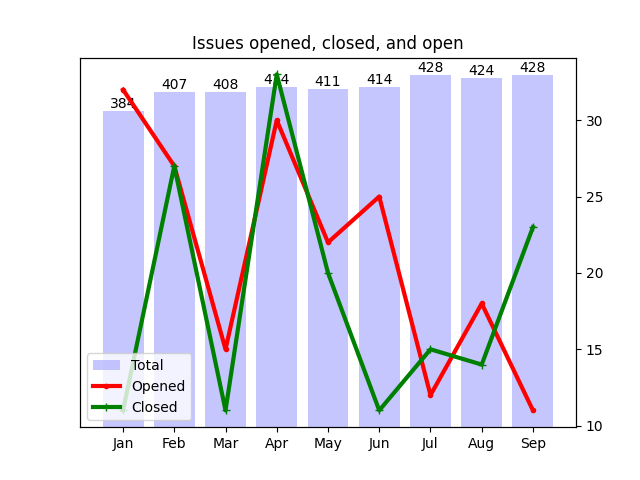
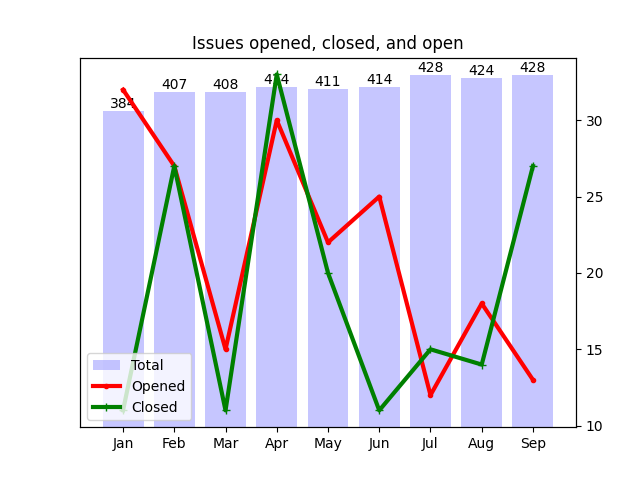
Apply automatic changes

Changed region(s): [[0.75, 0.3438, 0.8438, 0.875]]

diff --git a/docs/analytics.html b/docs/analytics.html
@@ -109,8 +109,8 @@ td .material-icons { display:inline-flex; vertical-align: top; font-size:1.1rem;
 						</tr>
 						<tr>
 							<td>Sep</td>
-							<td>11</td>
-							<td>23</td>
+							<td>13</td>
+							<td>27</td>
 						</tr>
 					</table>
 				</div>
@@ -130,7 +130,7 @@ td .material-icons { display:inline-flex; vertical-align: top; font-size:1.1rem;
 							<td>
 								<a href="http://github.com/notofonts/latin-greek-cyrillic/issues">latin-greek-cyrillic</a>
 							</td>
-							<td>126</td>
+							<td>127</td>
 						</tr>
 						<tr>
 							<td>
@@ -201,19 +201,19 @@ td .material-icons { display:inline-flex; vertical-align: top; font-size:1.1rem;
 				<tr>
 					<td>1</td>
 					<td>
-						<a href="http://github.com/notofonts/chakma/issues">chakma</a>,  						<a href="http://github.com/notofonts/chorasmian/issues">chorasmian</a>,  						<a href="http://github.com/notofonts/dogra/issues">dogra</a>,  						<a href="http://github.com/notofonts/duployan/issues">duployan</a>,  						<a href="http://github.com/notofonts/elbasan/issues">elbasan</a>,  						<a href="http://github.com/notofonts/ethiopic/issues">ethiopic</a>,  						<a href="http://github.com/notofonts/glagolitic/issues">glagolitic</a>,  						<a href="http://github.com/notofonts/gunjala-gondi/issues">gunjala-gondi</a>,  						<a href="http://github.com/notofonts/inscriptional-pahlavi/issues">inscriptional-pahlavi</a>,  						<a href="http://github.com/notofonts/kharoshthi/issues">kharoshthi</a>,  						<a href="http://github.com/notofonts/khitan-small-script/issues">khitan-small-script</a>,  						<a href="http://github.com/notofonts/khmer/issues">khmer</a>,  						<a href="http://github.com/notofonts/khojki/issues">khojki</a>,  						<a href="http://github.com/notofonts/khudawadi/issues">khudawadi</a>,  						<a href="http://github.com/notofonts/lao/issues">lao</a>,  						<a href="http://github.com/notofonts/limbu/issues">limbu</a>,  						<a href="http://github.com/notofonts/masaram-gondi/issues">masaram-gondi</a>,  						<a href="http://github.com/notofonts/meetei-mayek/issues">meetei-mayek</a>,  						<a href="http://github.com/notofonts/mongolian/issues">mongolian</a>,  						<a href="http://github.com/notofonts/nag-mundari/issues">nag-mundari</a>,  						<a href="http://github.com/notofonts/nko/issues">nko</a>,  						<a href="http://github.com/notofonts/old-italic/issues">old-italic</a>,  						<a href="http://github.com/notofonts/old-turkic/issues">old-turkic</a>,  						<a href="http://github.com/notofonts/pau-cin-hau/issues">pau-cin-hau</a>,  						<a href="http://github.com/notofonts/phags-pa/issues">phags-pa</a>,  						<a href="http://github.com/notofonts/rejang/issues">rejang</a>,  						<a href="http://github.com/notofonts/saurashtra/issues">saurashtra</a>,  						<a href="http://github.com/notofonts/sogdian/issues">sogdian</a>,  						<a href="http://github.com/notofonts/sundanese/issues">sundanese</a>,  						<a href="http://github.com/notofonts/tai-tham/issues">tai-tham</a>,  						<a href="http://github.com/notofonts/takri/issues">takri</a>,  						<a href="http://github.com/notofonts/tangsa/issues">tangsa</a>,  						<a href="http://github.com/notofonts/thaana/issues">thaana</a>,  						<a href="http://github.com/notofonts/toto/issues">toto</a> 
+						<a href="http://github.com/notofonts/chakma/issues">chakma</a>,  						<a href="http://github.com/notofonts/chorasmian/issues">chorasmian</a>,  						<a href="http://github.com/notofonts/dogra/issues">dogra</a>,  						<a href="http://github.com/notofonts/duployan/issues">duployan</a>,  						<a href="http://github.com/notofonts/elbasan/issues">elbasan</a>,  						<a href="http://github.com/notofonts/glagolitic/issues">glagolitic</a>,  						<a href="http://github.com/notofonts/gunjala-gondi/issues">gunjala-gondi</a>,  						<a href="http://github.com/notofonts/inscriptional-pahlavi/issues">inscriptional-pahlavi</a>,  						<a href="http://github.com/notofonts/kharoshthi/issues">kharoshthi</a>,  						<a href="http://github.com/notofonts/khitan-small-script/issues">khitan-small-script</a>,  						<a href="http://github.com/notofonts/khojki/issues">khojki</a>,  						<a href="http://github.com/notofonts/khudawadi/issues">khudawadi</a>,  						<a href="http://github.com/notofonts/lao/issues">lao</a>,  						<a href="http://github.com/notofonts/limbu/issues">limbu</a>,  						<a href="http://github.com/notofonts/masaram-gondi/issues">masaram-gondi</a>,  						<a href="http://github.com/notofonts/meetei-mayek/issues">meetei-mayek</a>,  						<a href="http://github.com/notofonts/mongolian/issues">mongolian</a>,  						<a href="http://github.com/notofonts/nag-mundari/issues">nag-mundari</a>,  						<a href="http://github.com/notofonts/nko/issues">nko</a>,  						<a href="http://github.com/notofonts/old-italic/issues">old-italic</a>,  						<a href="http://github.com/notofonts/old-turkic/issues">old-turkic</a>,  						<a href="http://github.com/notofonts/oriya/issues">oriya</a>,  						<a href="http://github.com/notofonts/pau-cin-hau/issues">pau-cin-hau</a>,  						<a href="http://github.com/notofonts/phags-pa/issues">phags-pa</a>,  						<a href="http://github.com/notofonts/psalter-pahlavi/issues">psalter-pahlavi</a>,  						<a href="http://github.com/notofonts/rejang/issues">rejang</a>,  						<a href="http://github.com/notofonts/saurashtra/issues">saurashtra</a>,  						<a href="http://github.com/notofonts/sogdian/issues">sogdian</a>,  						<a href="http://github.com/notofonts/sundanese/issues">sundanese</a>,  						<a href="http://github.com/notofonts/tai-tham/issues">tai-tham</a>,  						<a href="http://github.com/notofonts/takri/issues">takri</a>,  						<a href="http://github.com/notofonts/tangsa/issues">tangsa</a>,  						<a href="http://github.com/notofonts/thaana/issues">thaana</a>,  						<a href="http://github.com/notofonts/toto/issues">toto</a> 
 					</td>
 				</tr>
 				<tr>
 					<td>2</td>
 					<td>
-						<a href="http://github.com/notofonts/adlam/issues">adlam</a>,  						<a href="http://github.com/notofonts/armenian/issues">armenian</a>,  						<a href="http://github.com/notofonts/brahmi/issues">brahmi</a>,  						<a href="http://github.com/notofonts/coptic/issues">coptic</a>,  						<a href="http://github.com/notofonts/cuneiform/issues">cuneiform</a>,  						<a href="http://github.com/notofonts/devanagari/issues">devanagari</a>,  						<a href="http://github.com/notofonts/georgian/issues">georgian</a>,  						<a href="http://github.com/notofonts/mandaic/issues">mandaic</a>,  						<a href="http://github.com/notofonts/music/issues">music</a>,  						<a href="http://github.com/notofonts/old-hungarian-ui/issues">old-hungarian-ui</a>,  						<a href="http://github.com/notofonts/oriya/issues">oriya</a>,  						<a href="http://github.com/notofonts/sign-writing/issues">sign-writing</a>,  						<a href="http://github.com/notofonts/tagalog/issues">tagalog</a>,  						<a href="http://github.com/notofonts/tamil/issues">tamil</a>,  						<a href="http://github.com/notofonts/telugu/issues">telugu</a> 
+						<a href="http://github.com/notofonts/adlam/issues">adlam</a>,  						<a href="http://github.com/notofonts/armenian/issues">armenian</a>,  						<a href="http://github.com/notofonts/brahmi/issues">brahmi</a>,  						<a href="http://github.com/notofonts/coptic/issues">coptic</a>,  						<a href="http://github.com/notofonts/cuneiform/issues">cuneiform</a>,  						<a href="http://github.com/notofonts/devanagari/issues">devanagari</a>,  						<a href="http://github.com/notofonts/georgian/issues">georgian</a>,  						<a href="http://github.com/notofonts/khmer/issues">khmer</a>,  						<a href="http://github.com/notofonts/mandaic/issues">mandaic</a>,  						<a href="http://github.com/notofonts/music/issues">music</a>,  						<a href="http://github.com/notofonts/old-hungarian-ui/issues">old-hungarian-ui</a>,  						<a href="http://github.com/notofonts/sign-writing/issues">sign-writing</a>,  						<a href="http://github.com/notofonts/tagalog/issues">tagalog</a>,  						<a href="http://github.com/notofonts/tamil/issues">tamil</a>,  						<a href="http://github.com/notofonts/telugu/issues">telugu</a> 
 					</td>
 				</tr>
 				<tr>
 					<td>3</td>
 					<td>
-						<a href="http://github.com/notofonts/ahom/issues">ahom</a>,  						<a href="http://github.com/notofonts/inscriptional-parthian/issues">inscriptional-parthian</a>,  						<a href="http://github.com/notofonts/kaithi/issues">kaithi</a>,  						<a href="http://github.com/notofonts/manichaean/issues">manichaean</a>,  						<a href="http://github.com/notofonts/nandinagari/issues">nandinagari</a>,  						<a href="http://github.com/notofonts/psalter-pahlavi/issues">psalter-pahlavi</a>,  						<a href="http://github.com/notofonts/sharada/issues">sharada</a>,  						<a href="http://github.com/notofonts/siddham/issues">siddham</a>,  						<a href="http://github.com/notofonts/thai/issues">thai</a>,  						<a href="http://github.com/notofonts/tifinagh/issues">tifinagh</a>,  						<a href="http://github.com/notofonts/znamenny/issues">znamenny</a> 
+						<a href="http://github.com/notofonts/ahom/issues">ahom</a>,  						<a href="http://github.com/notofonts/inscriptional-parthian/issues">inscriptional-parthian</a>,  						<a href="http://github.com/notofonts/kaithi/issues">kaithi</a>,  						<a href="http://github.com/notofonts/manichaean/issues">manichaean</a>,  						<a href="http://github.com/notofonts/nandinagari/issues">nandinagari</a>,  						<a href="http://github.com/notofonts/sharada/issues">sharada</a>,  						<a href="http://github.com/notofonts/siddham/issues">siddham</a>,  						<a href="http://github.com/notofonts/thai/issues">thai</a>,  						<a href="http://github.com/notofonts/tifinagh/issues">tifinagh</a>,  						<a href="http://github.com/notofonts/znamenny/issues">znamenny</a> 
 					</td>
 				</tr>
 				<tr>
@@ -264,7 +264,7 @@ td .material-icons { display:inline-flex; vertical-align: top; font-size:1.1rem;
 						<tr>
 							<td>1</td>
 							<td>
-									<a href="http://github.com/notofonts/latin-greek-cyrillic/issues">latin-greek-cyrillic</a>: 126, 
+									<a href="http://github.com/notofonts/latin-greek-cyrillic/issues">latin-greek-cyrillic</a>: 127, 
 
 									<a href="http://github.com/notofonts/hebrew/issues">hebrew</a>: 14, 
 
@@ -286,11 +286,11 @@ td .material-icons { display:inline-flex; vertical-align: top; font-size:1.1rem;
 
 									<a href="http://github.com/notofonts/devanagari/issues">devanagari</a>: 2, 
 
-									<a href="http://github.com/notofonts/oriya/issues">oriya</a>: 2, 
-
 									<a href="http://github.com/notofonts/tamil/issues">tamil</a>: 2, 
 
-									<a href="http://github.com/notofonts/telugu/issues">telugu</a>: 2
+									<a href="http://github.com/notofonts/telugu/issues">telugu</a>: 2, 
+
+									<a href="http://github.com/notofonts/oriya/issues">oriya</a>: 1
 							</td>
 						</tr>
 						<tr>
@@ -306,9 +306,7 @@ td .material-icons { display:inline-flex; vertical-align: top; font-size:1.1rem;
 
 									<a href="http://github.com/notofonts/georgian/issues">georgian</a>: 2, 
 
-									<a href="http://github.com/notofonts/ethiopic/issues">ethiopic</a>: 1, 
-
-									<a href="http://github.com/notofonts/khmer/issues">khmer</a>: 1, 
+									<a href="http://github.com/notofonts/khmer/issues">khmer</a>: 2, 
 
 									<a href="http://github.com/notofonts/limbu/issues">limbu</a>: 1
 							</td>
@@ -436,8 +434,6 @@ td .material-icons { display:inline-flex; vertical-align: top; font-size:1.1rem;
 
 									<a href="http://github.com/notofonts/nandinagari/issues">nandinagari</a>: 3, 
 
-									<a href="http://github.com/notofonts/psalter-pahlavi/issues">psalter-pahlavi</a>: 3, 
-
 									<a href="http://github.com/notofonts/chorasmian/issues">chorasmian</a>: 1, 
 
 									<a href="http://github.com/notofonts/elbasan/issues">elbasan</a>: 1, 
@@ -451,6 +447,8 @@ td .material-icons { display:inline-flex; vertical-align: top; font-size:1.1rem;
 									<a href="http://github.com/notofonts/old-italic/issues">old-italic</a>: 1, 
 
 									<a href="http://github.com/notofonts/old-turkic/issues">old-turkic</a>: 1, 
+
+									<a href="http://github.com/notofonts/psalter-pahlavi/issues">psalter-pahlavi</a>: 1, 
 
 									<a href="http://github.com/notofonts/sogdian/issues">sogdian</a>: 1
 							</td>
